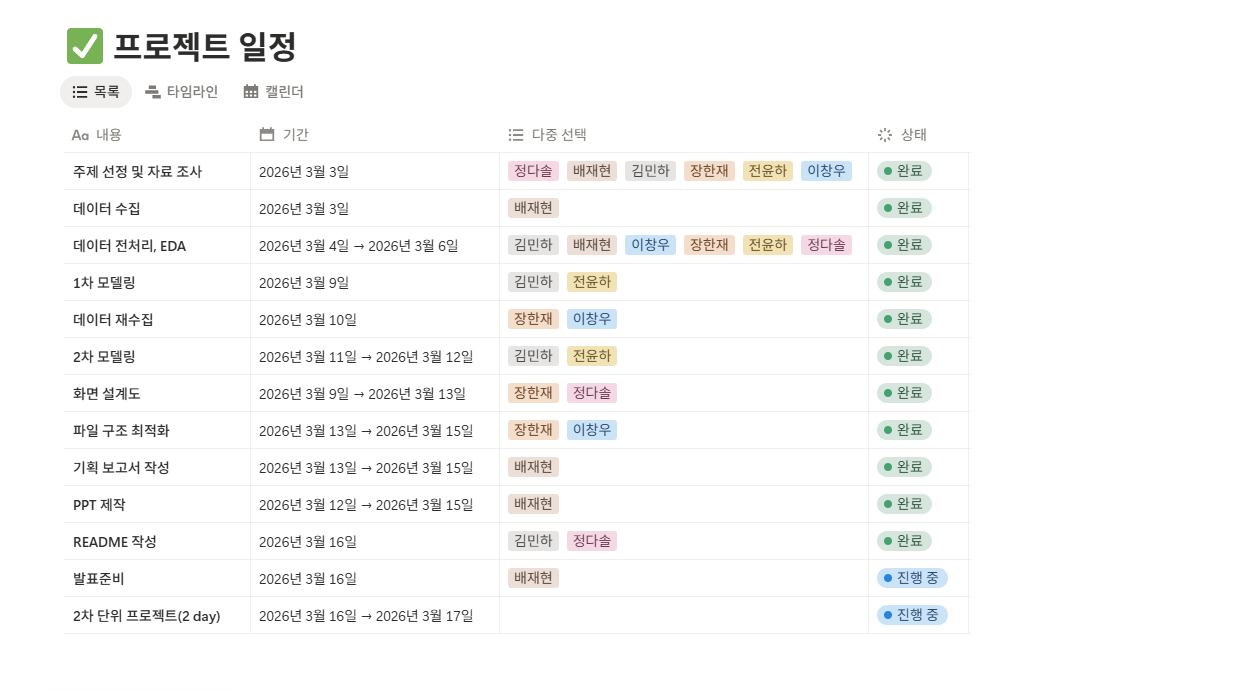
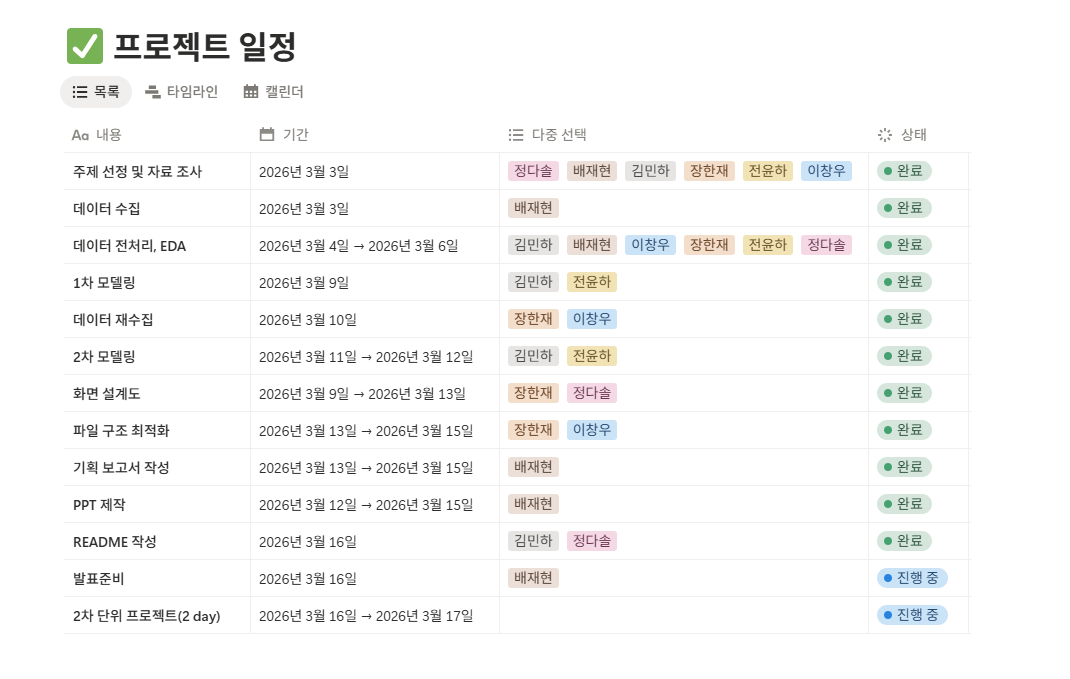
docs: update REAEME.md

diff --git a/README.md b/README.md
@@ -48,7 +48,7 @@ flowchart LR
     classDef orangeNode fill:#ffe5b4,stroke:#ff851b,stroke-width:2px;
     
 ```
-<div align="left"> <img width="1492" height="1000" alt="Image" src="09_assets/wbs.png" width="10%" height="10%"/> </div>
+<div align="left"> <img width="1392" height="1000" alt="Image" src="09_assets/wbs.png" width="10%" height="10%"/> </div>
 
 ---
 
